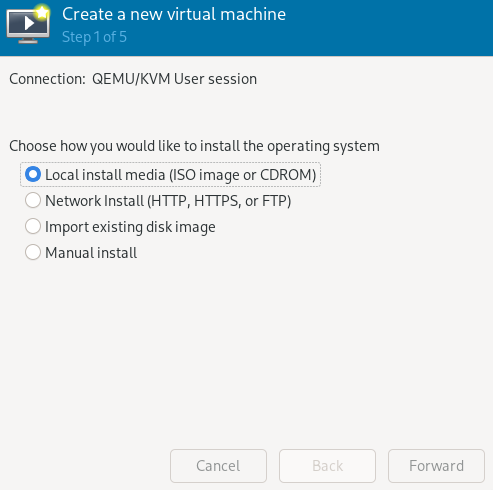
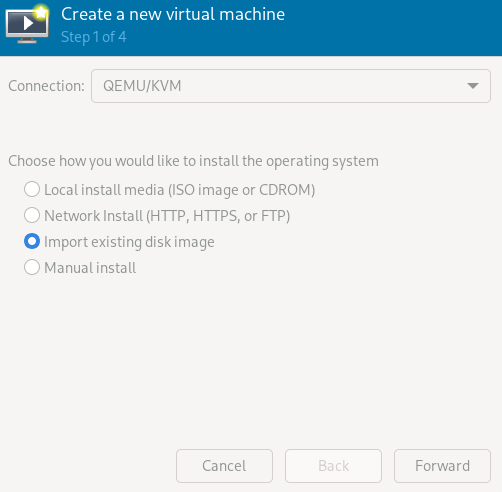
added better installation docs

diff --git a/src/pages/docs/installation.md b/src/pages/docs/installation.md
@@ -36,23 +36,50 @@ $ /etc/soviet-install.sh /dev/sdX # Target drive
 Then after a reboot you should be good to go with your new Soviet-powered PC
 ## 2. Trying it out on VM
 
+### Step 1: Create a New Virtual Machine
+
 Create a new virtual machine using the previously downloaded image.
 ![](/assets/virt1.png)
-You will need to select your soviet image and dont forget to set the OS to `generic linux 2022`
+Select your Soviet image and set the OS to `Generic Linux 2022`.
 ![](/assets/virt2.png)
-This depends on how much resources you want to dedicate, we recommend atleast 4 gigabytes of ram and 2 cores
+
+### Step 2: Configure Resources
+
+Configure the resources for your virtual machine. We recommend allocating at least 4 gigabytes of RAM and 2 cores.
 ![](/assets/virt3.png)
-Now make the image however big you want to, we recommend atleast 25gb
+
+### Step 3: Name Your VM and Customize Configuration
+
+Name your virtual machine and make sure to select `Customize configuration before install`. This is crucial for the installation to work.
 ![](/assets/virt4.png)
-Now you can name your VM however you want, but dont forget to set `customize configuration before install` or else it will not work
+
+### Step 4: Delete the existing drives
+
+Set the `Firmware` to `UEFI` and click apply. Delete the existing drives.
 ![](/assets/virt5.png)
-Set `Firmware` to `UEFI` and click apply
+### Step 5: Create CD Drive
+
+Create the root drive for the Soviet installation. Make sure to use virtIO, as the installation may not work without them.
 ![](/assets/virt6.png)
-Now you can begin the installation
-Boot from the installation image. log in as `root` with password `sovietlinux` and run:
+
+### Step 6: Create Root Drive
+
+Create the root drive for the Soviet installation. Make sure to use virtIO, as the installation may not work without them.
+![](/assets/virt7.png)
+
+### Step 7: Set CDROM as boot device
+![](/assets/virt8.png)
+
+### Step 7: Begin Installation
+
+Boot from the installation image. Log in as `root` with the password `sovietlinux` and run the following command:
 ```bash
 $ /etc/soviet-install.sh /dev/vdb
 ```
-This should typically point to `/dev/vdb`, assuming you followed the tutorial.
+This command should typically point to `/dev/vdb`, assuming you followed the tutorial.
 
-Now you are done, you should reboot the VM and boot into Soviet
+### Step 8: Shut Down and Reboot
+
+Shut down the virtual machine and ensure that the virtIO drive is at the top.
+![](/assets/virt9.png)
+Then, reboot the VM. It should now boot into your new Soviet installation.

diff --git a/src/pages/docs/CCCP.md b/src/pages/docs/CCCP.md
@@ -1,0 +1,6 @@
+---
+layout: ../../layouts/Docs.astro
+---
+# CCCP package manager
+The CCCP Crafter of Controlled Packages (CCCP) is apackage manager that has been designed and implemented from scratch in C.
+CCCP is managed by the Soviet-Linux team and developed at https://github.com/Soviet-Linux/CCCP.
